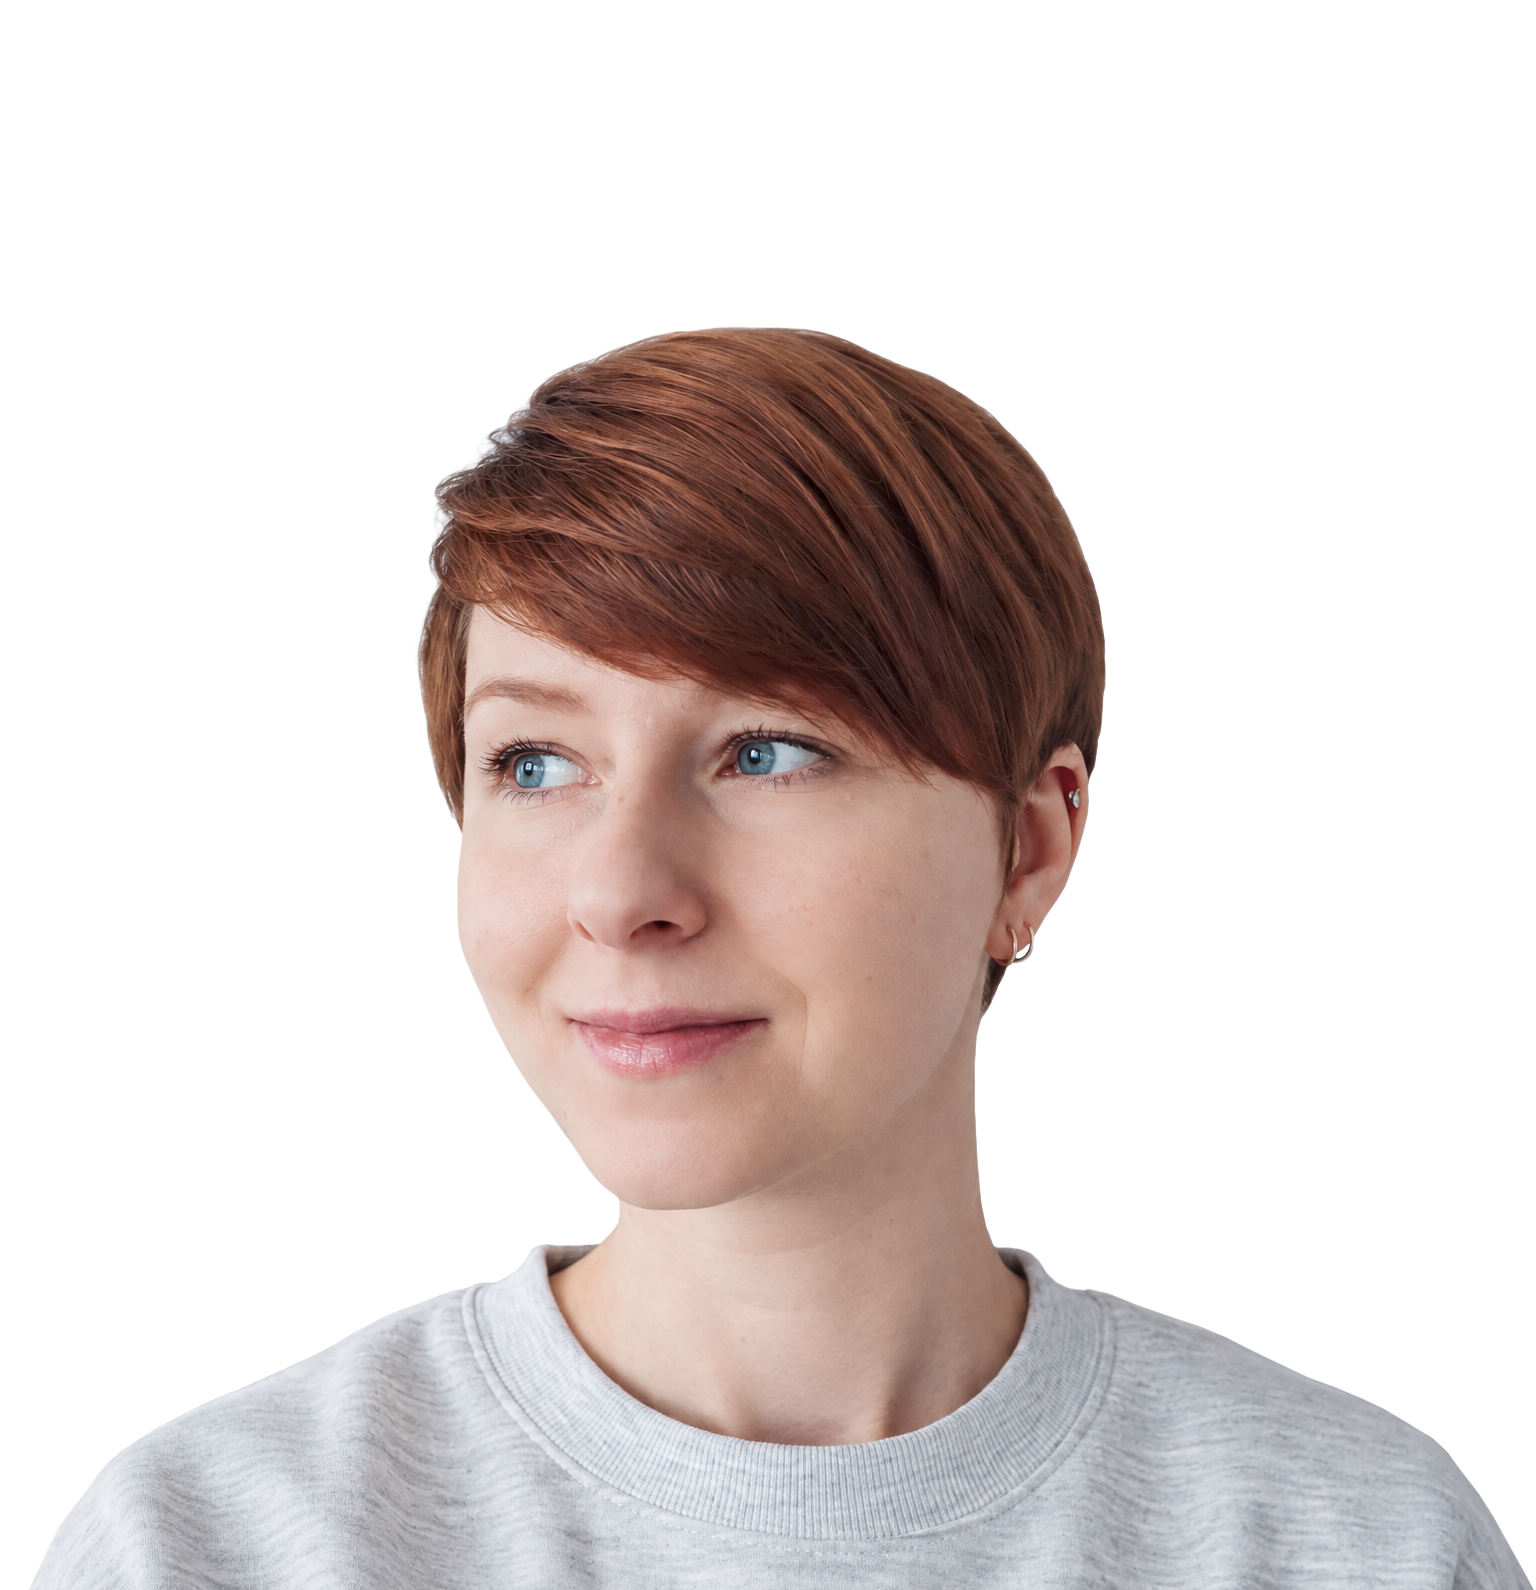
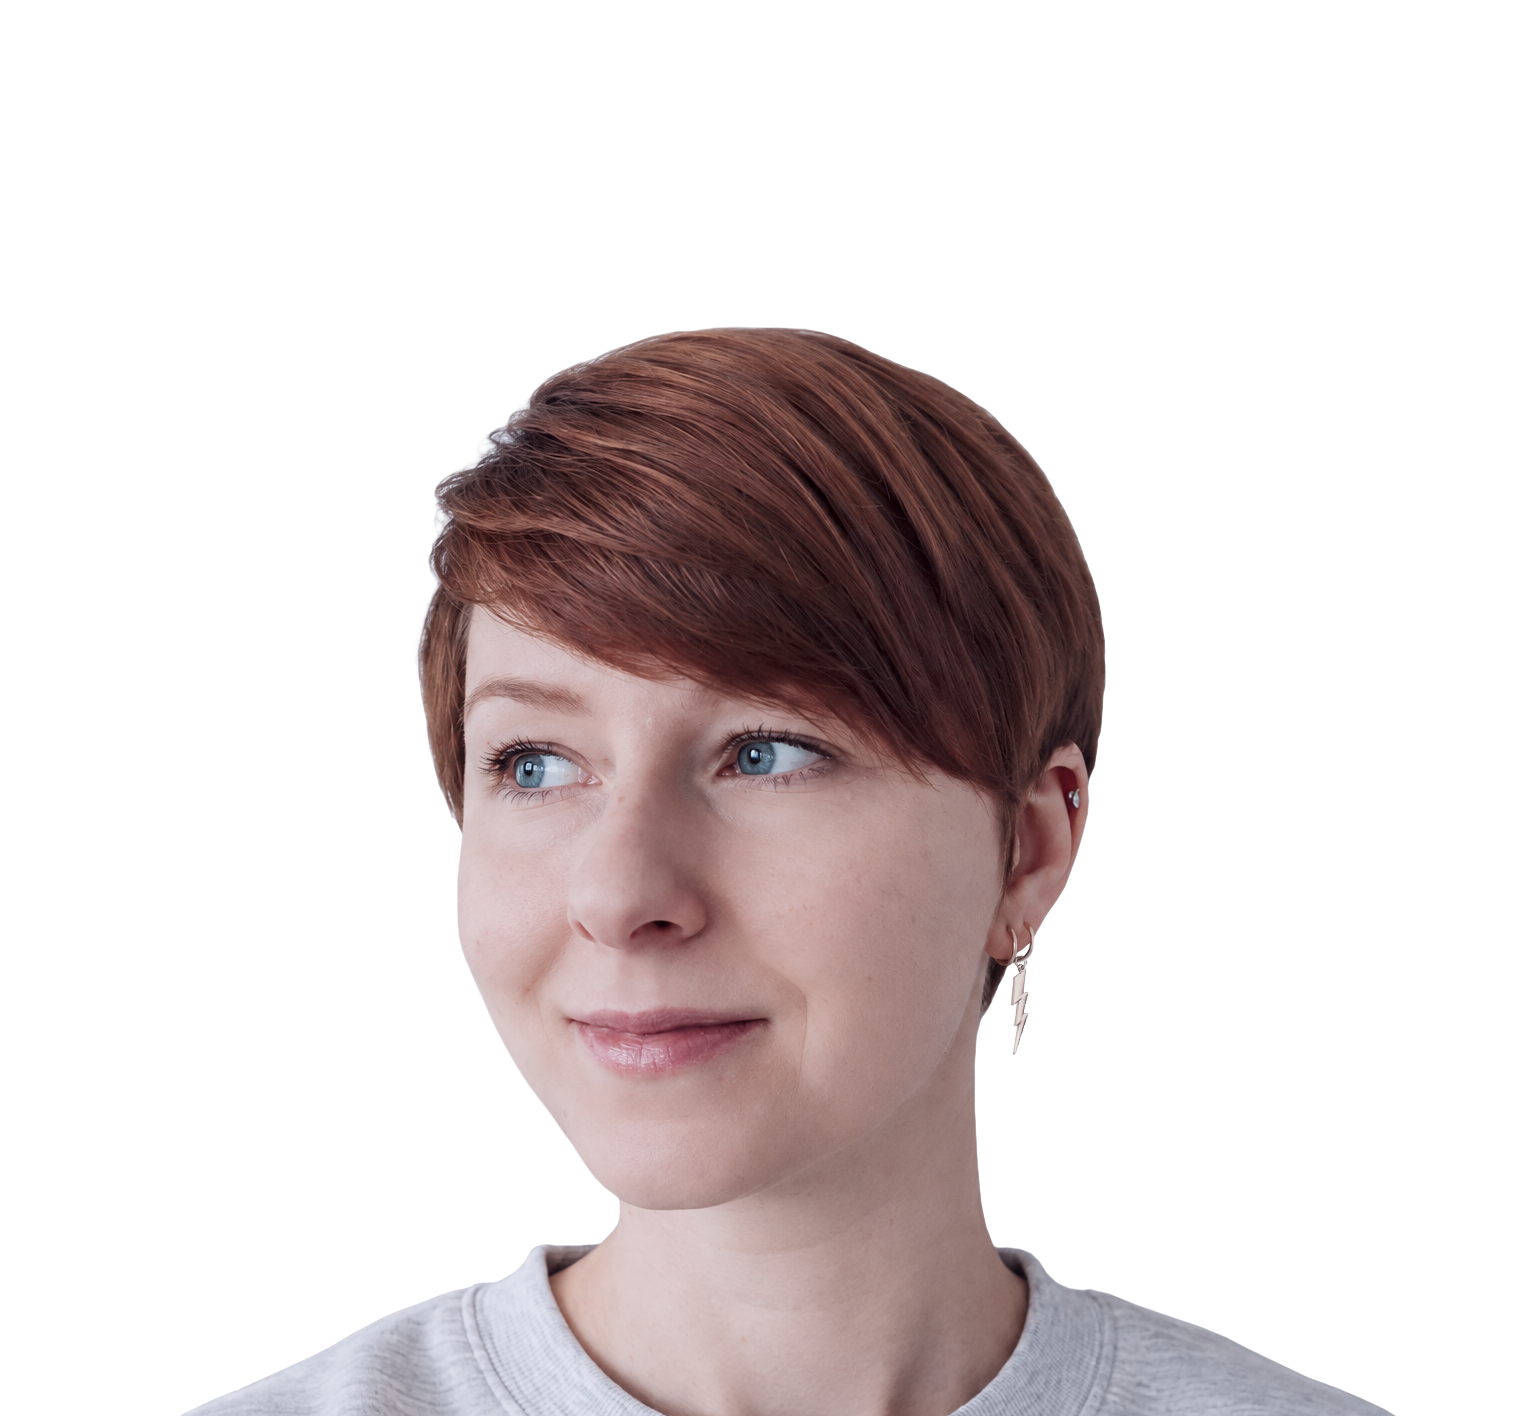
New hero background image, sharper gallery

Changed region(s): [[0.0, 0.1864, 1.0, 1.0]]

diff --git a/components/hero/FirstScreen.tsx b/components/hero/FirstScreen.tsx
@@ -83,10 +83,12 @@ export function FirstScreen() {
           }}
         />
 
-        {/* Portrait — Figma 81:681: 1603×1659 at (159, −400) in the 1920 frame,
-            i.e. centre − 801; mirrored. File = the Figma crop of the 1536×2048
-            source (rows 0–1590), so it is shown at ~1:1 at 1920px.
-            Its bottom never rises above the Figma bleed (1259 − 1080 = 179).
+        {/* Portrait — Figma 96:1187 "tanya3 1": 1610×2146 at (156, −404) in the
+            1920 frame (centred, +0.5), i.e. centre − 804; mirrored.
+            File = the Figma source (1536×2048), rows 0–1416 only: the lower
+            662px of the Figma box always stays below the screen, because the
+            image bottom never rises above the Figma bleed (2146 − 404 − 1080 = 662).
+            Box height = 1416 × 2146/2048 = 1483.78.
             <picture>: phones (< 768px, mobile layout) get a 1px placeholder
             instead of downloading this desktop-only image. */}
         <picture>
@@ -99,10 +101,10 @@ export function FirstScreen() {
             className="enter-from-below pointer-events-none absolute -scale-x-100 object-fill select-none"
             style={{
               ...delay(0),
-              width: "calc(var(--p) * 1603)",
-              height: "calc(var(--p) * 1659)",
-              left: "calc(50% - var(--p) * 801)",
-              top: "max(calc(var(--p) * -400), calc(100% - var(--p) * 1480))",
+              width: "calc(var(--p) * 1610)",
+              height: "calc(var(--p) * 1483.78)",
+              left: "calc(50% - var(--p) * 804)",
+              top: "max(calc(var(--p) * -404), calc(100% - var(--p) * 1484))",
             }}
           />
         </picture>

diff --git a/app/globals.css b/app/globals.css
@@ -186,11 +186,16 @@ img {
   /* `transform` composes with Tailwind's translate/scale properties,
      so positioned elements (−50% centring, mirrored portrait) keep their
      layout; the animation only adds the small slide. */
+  /* fill-mode `backwards` (not `both`): hidden during the delay, and once the
+     entrance has finished the animation lets go of the element completely.
+     With `both` the finished animation kept every block on its own GPU layer,
+     rasterised at the wrong scale → images (Gallery, portrait) looked blurry,
+     especially with Windows display scaling 125% / 150%. End state is identical. */
   .enter-from-above {
-    animation: enter-from-above var(--hero-duration) var(--ease-out) var(--enter-delay, 0ms) both;
+    animation: enter-from-above var(--hero-duration) var(--ease-out) var(--enter-delay, 0ms) backwards;
   }
   .enter-from-below {
-    animation: enter-from-below var(--hero-duration) var(--ease-out) var(--enter-delay, 0ms) both;
+    animation: enter-from-below var(--hero-duration) var(--ease-out) var(--enter-delay, 0ms) backwards;
   }
 }
 
@@ -236,6 +241,8 @@ html.js-reveal .is-revealed [data-reveal] {
   opacity: 1;
   transform: none;
   --ring-angle: 360deg;
+  /* release the GPU layer once revealed (a permanent layer renders images soft) */
+  will-change: auto;
 }
 
 /* ---------- Hovers ---------- */

diff --git a/content/home.ts b/content/home.ts
@@ -5,7 +5,7 @@ import type { HeroGalleryItem, HeroLabelData, InfoCard } from "@/types";
 export const heroTitle = "UX/UI DESIGNER";
 
 export const heroPortrait = {
-  // Figma crop of the 1536×2048 source (hero only; About/Contact keep portrait.png)
+  // Figma 96:1187 source (1536×2048), top 1416 rows (hero only; About/Contact keep portrait.png)
   src: "/images/portrait-hero.png",
   alt: "Tatiana Sedova",
 };
